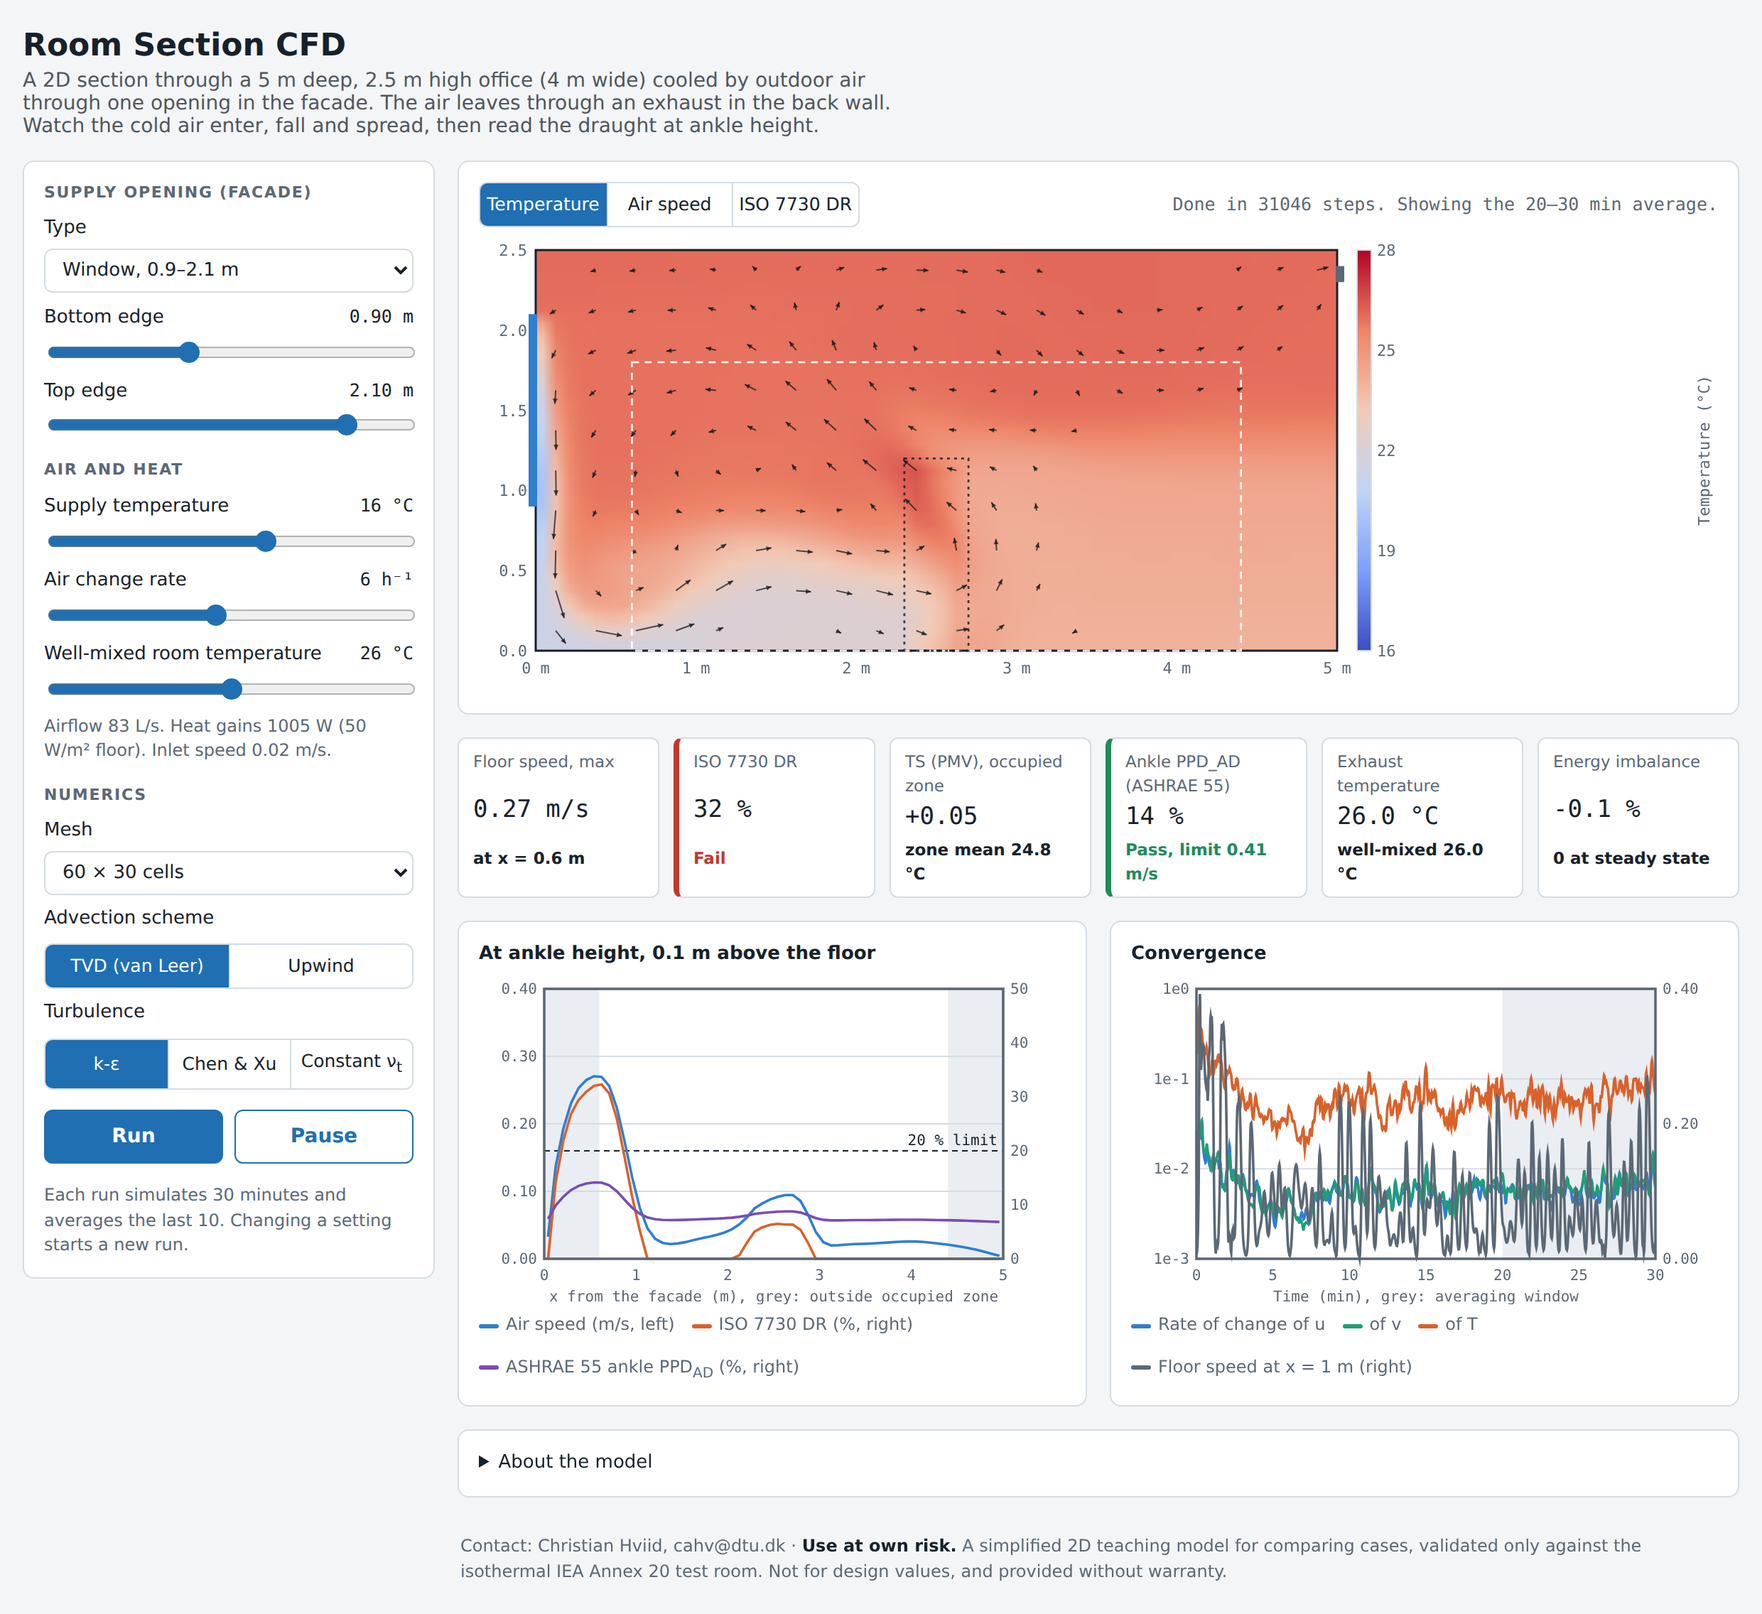
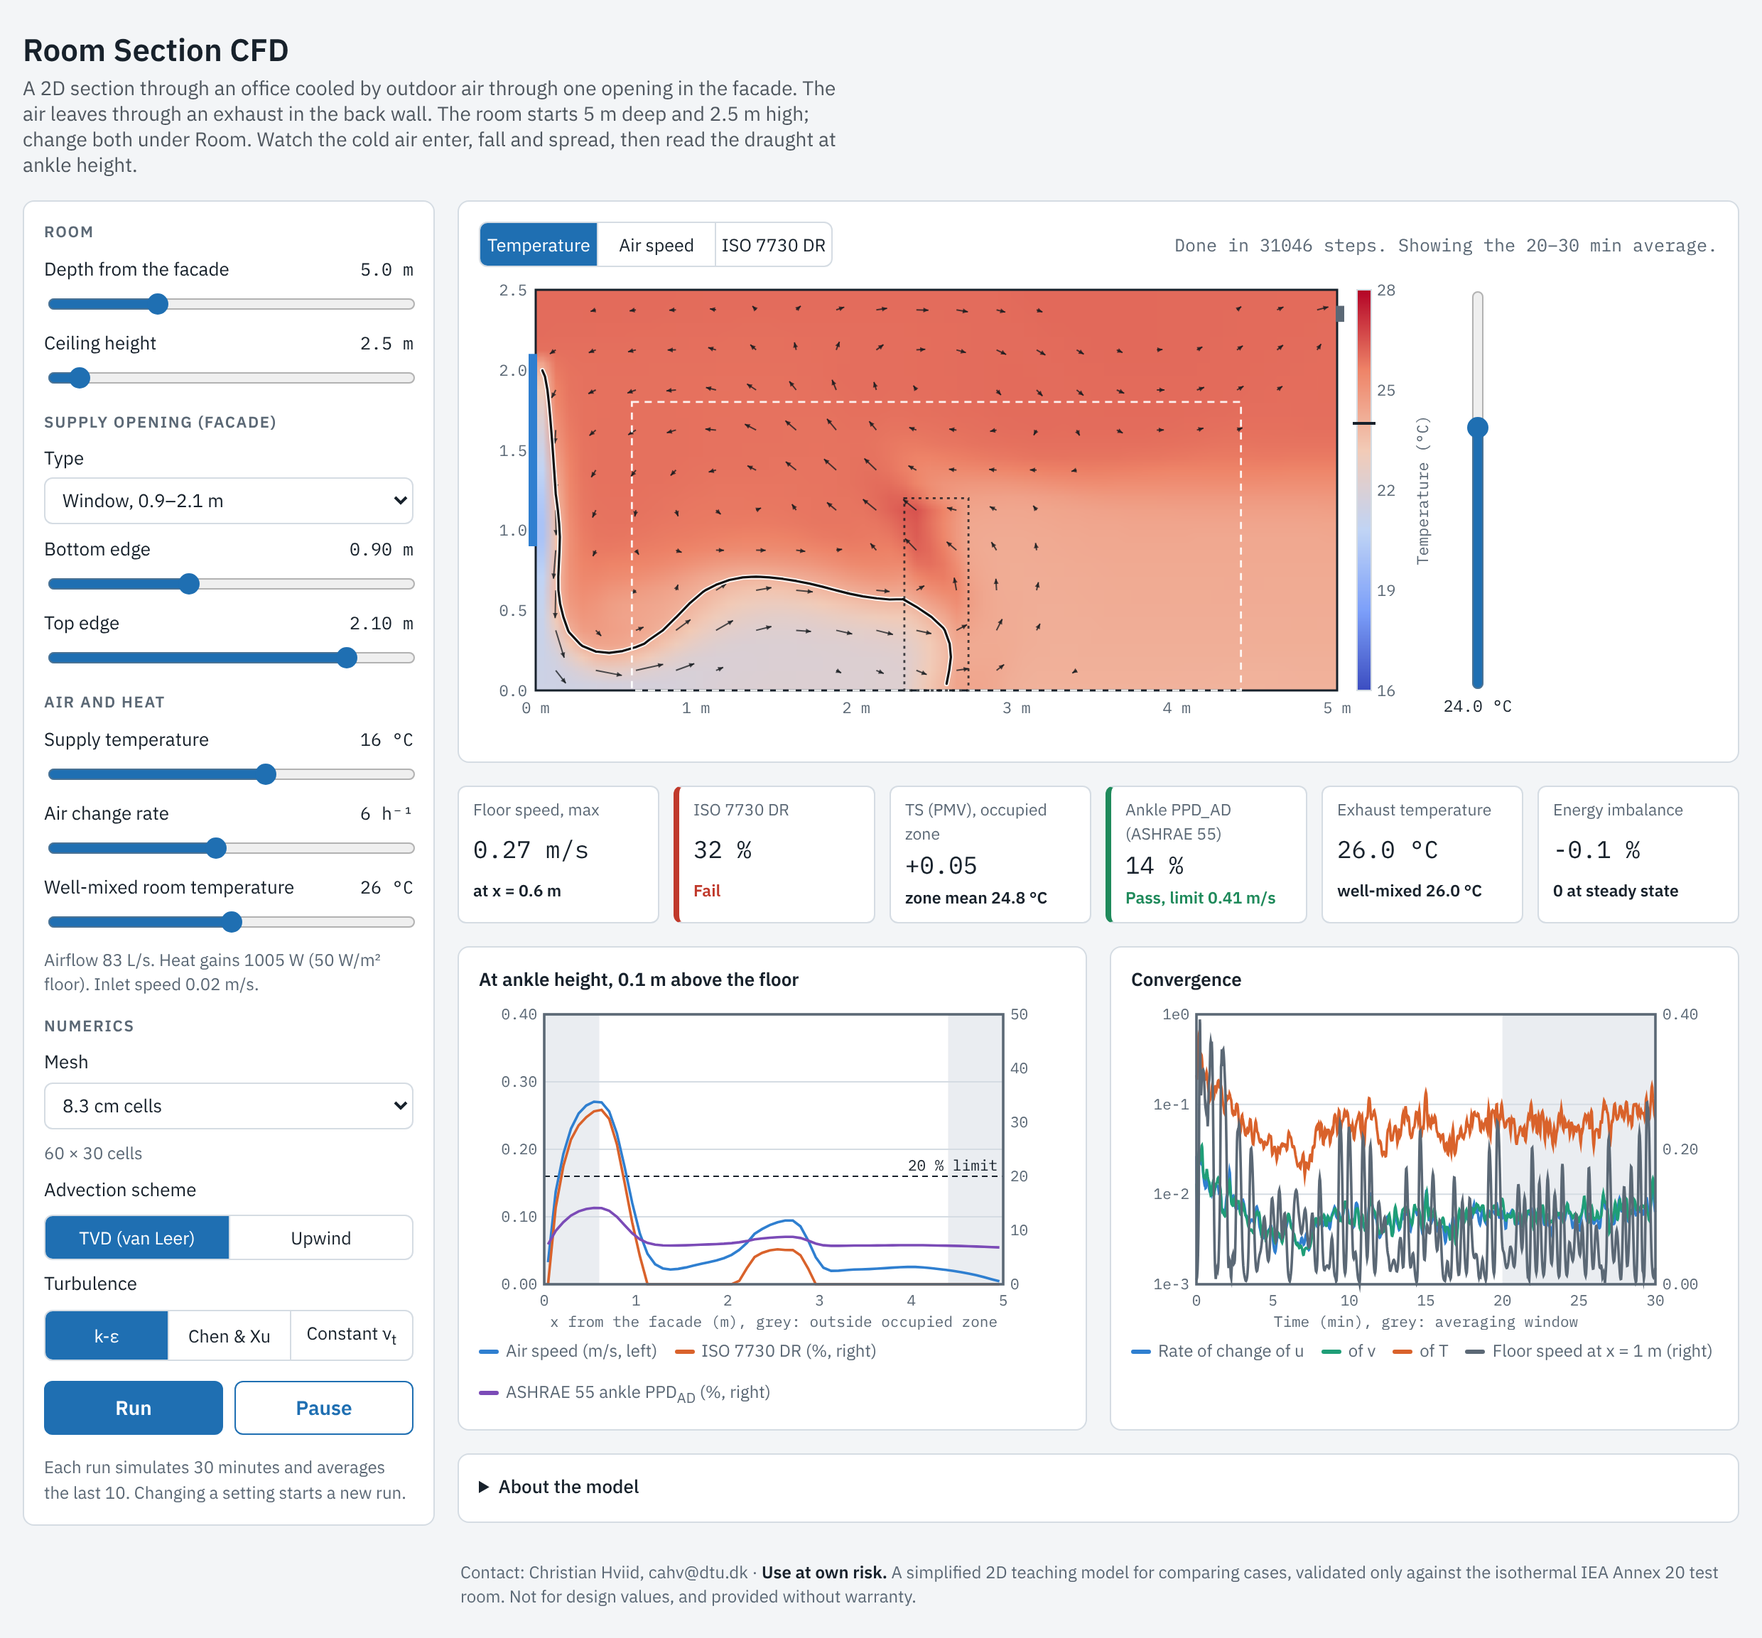
2D room CFD app: adjustable room depth and ceiling height; Appendix B text and screenshot
Claude-Session: https://claude.ai/code/session_01UrtxaCZXiysJhkrdrnt1hM

diff --git a/chapters/code/room-cfd.html b/chapters/code/room-cfd.html
@@ -12,7 +12,7 @@ p.sub { margin: 0 0 12px; font-size: 14px; opacity: .75; max-width: 70ch; }
 </style>
 </head><body><main>
 <h1>Room Section CFD</h1>
-<p class="sub">A 2D section through a 5 m deep, 2.5 m high office (4 m wide) cooled by outdoor air through one opening in the facade. The air leaves through an exhaust in the back wall. Watch the cold air enter, fall and spread, then read the draught at ankle height.</p>
+<p class="sub">A 2D section through an office cooled by outdoor air through one opening in the facade. The air leaves through an exhaust in the back wall. The room starts 5 m deep and 2.5 m high; change both under Room. Watch the cold air enter, fall and spread, then read the draught at ankle height.</p>
 <div id="app"></div>
 </main>
 <script type="module">
@@ -487,12 +487,19 @@ const MARKUP = `<div class="wrap">
   <div class="layout">
     <aside class="panel controls" aria-label="Case settings">
       <div class="group">
+        <h2>Room</h2>
+        <label for="rL"><span class="row"><span>Depth from the facade</span><span class="val" id="rLV"></span></span>
+          <input id="rL" type="range" min="3" max="10" step="0.5" value="5"></label>
+        <label for="rH"><span class="row"><span>Ceiling height</span><span class="val" id="rHV"></span></span>
+          <input id="rH" type="range" min="2.4" max="4" step="0.1" value="2.5"></label>
+      </div>
+      <div class="group">
         <h2>Supply opening (facade)</h2>
         <label for="preset">Type
           <select id="preset">
             <option value="window">Window, 0.9–2.1 m</option>
             <option value="door">Balcony door, 0–2.1 m</option>
-            <option value="hatch">Top hatch, 2.2–2.4 m</option>
+            <option value="hatch" id="hatchOpt">Top hatch, 2.2–2.4 m</option>
             <option value="low">Low slot, 0.2–0.3 m</option>
             <option value="custom">Custom</option>
           </select>
@@ -516,11 +523,12 @@ const MARKUP = `<div class="wrap">
         <h2>Numerics</h2>
         <label for="mesh">Mesh
           <select id="mesh">
-            <option value="50">50 × 25 cells (fast)</option>
-            <option value="60" selected>60 × 30 cells</option>
-            <option value="80">80 × 40 cells (slow)</option>
+            <option value="50">10 cm cells (fast)</option>
+            <option value="60" selected>8.3 cm cells</option>
+            <option value="80">6.25 cm cells (slow)</option>
           </select>
         </label>
+        <p class="note" id="meshNote"></p>
         <div class="group"><span style="font-size:13px">Advection scheme</span>
           <div class="seg" id="adv" role="group" aria-label="Advection scheme">
             <button type="button" data-v="tvd" aria-pressed="true">TVD (van Leer)</button>
@@ -598,30 +606,36 @@ const MARKUP = `<div class="wrap">
 
 function app(root, autoRun) {
   const $ = id => root.querySelector("#" + id);
-  const PRESETS = { window: [0.9, 2.1], door: [0, 2.1], hatch: [2.2, 2.4], low: [0.2, 0.3] };
-  const state = { preset: "window", lo: 0.9, hi: 2.1, tin: 16, ach: 6, troom: 26, mesh: 60, adv: "tvd", turb: "k-epsilon", field: "T", iso: { T: 24, speed: 0.15, DR: 20 } };
+  // the top hatch sits 0.1 m below the ceiling, whatever the ceiling height
+  const PRESETS = { window: () => [0.9, 2.1], door: () => [0, 2.1], hatch: () => [+(state.H - 0.3).toFixed(2), +(state.H - 0.1).toFixed(2)], low: () => [0.2, 0.3] };
+  const state = { preset: "window", L: 5, H: 2.5, lo: 0.9, hi: 2.1, tin: 16, ach: 6, troom: 26, mesh: 60, adv: "tvd", turb: "k-epsilon", field: "T", iso: { T: 24, speed: 0.15, DR: 20 } };
   let sim = null, running = false, rafId = 0, lastDraw = 0;
 
   const css = name => getComputedStyle(root).getPropertyValue(name).trim();
   const fmt = (x, d = 2) => Number.isFinite(x) ? x.toFixed(d) : "–";
 
+  // mesh option = cells over 5 m, so the cell size stays the same when the room changes
+  const meshN = () => { const h = 5 / state.mesh; return [Math.round(state.L / h), Math.round(state.H / h)]; };
   function syncLabels() {
+    $("rLV").textContent = state.L.toFixed(1) + " m"; $("rHV").textContent = state.H.toFixed(1) + " m";
+    $("hatchOpt").textContent = `Top hatch, ${(state.H - 0.3).toFixed(1)}–${(state.H - 0.1).toFixed(1)} m`;
+    const [nx, ny] = meshN(); $("meshNote").textContent = `${nx} × ${ny} cells`;
     $("opLoV").textContent = state.lo.toFixed(2) + " m"; $("opHiV").textContent = state.hi.toFixed(2) + " m";
     $("tinV").textContent = state.tin + " °C"; $("achV").textContent = state.ach + " h⁻¹"; $("troomV").textContent = state.troom + " °C";
-    const q = state.ach * 5 * 2.5 * 4 / 3600, Q = 1.2 * 1005 * q * (state.troom - state.tin);
+    const q = state.ach * state.L * state.H * 4 / 3600, Q = 1.2 * 1005 * q * (state.troom - state.tin);
     const Uin = q / 4 / Math.max(state.hi - state.lo, 0.05);
     $("gainsNote").textContent = Q > 0
-      ? `Airflow ${(q * 1000).toFixed(0)} L/s. Heat gains ${Q.toFixed(0)} W (${(Q / 20).toFixed(0)} W/m² floor). Inlet speed ${Uin.toFixed(2)} m/s.`
+      ? `Airflow ${(q * 1000).toFixed(0)} L/s. Heat gains ${Q.toFixed(0)} W (${(Q / (4 * state.L)).toFixed(0)} W/m² floor). Inlet speed ${Uin.toFixed(2)} m/s.`
       : "The supply must be colder than the room. Raise the room temperature or lower the supply.";
     syncIso();
   }
 
   function makeCase() {
-    const q = state.ach * 5 * 2.5 * 4 / 3600;
+    const { L, H } = state, q = state.ach * L * H * 4 / 3600, [nx, ny] = meshN();
     const Q = Math.max(1.2 * 1005 * q * (state.troom - state.tin), 0);
-    return { L: 5, H: 2.5, W: 4, nx: state.mesh, ny: state.mesh / 2, ach: state.ach, T_in: state.tin,
-      inlet: { side: "left", start: state.lo, end: state.hi }, outlet: { side: "right", start: 2.3, end: 2.4 },
-      heat: [{ x0: 2.3, x1: 2.7, y0: 0, y1: 1.2, power: Q / 4 }], turbulence: state.turb, nu_t: 2e-3, Tu_in: 0.04, Pr_t: 0.85,
+    return { L, H, W: 4, nx, ny, ach: state.ach, T_in: state.tin,
+      inlet: { side: "left", start: state.lo, end: state.hi }, outlet: { side: "right", start: H - 0.2, end: H - 0.1 },
+      heat: [{ x0: L / 2 - 0.2, x1: L / 2 + 0.2, y0: 0, y1: 1.2, power: Q / 4 }], turbulence: state.turb, nu_t: 2e-3, Tu_in: 0.04, Pr_t: 0.85,
       advection: state.adv, t_end: 1800, t_avg: 600 };
   }
 
@@ -699,12 +713,14 @@ function app(root, autoRun) {
   }
 
   function drawField(f, useAvg) {
-    const cv = $("field"), [g, W, Hc] = sizeCanvas(cv, w => (w - 168) / 2 + 38);
+    // a tall, shallow room gets more height so it is not drawn tiny
+    const cv = $("field"); cv.dataset.h = sim.H / sim.L > 0.55 ? 460 : 320;
+    const [g, W, Hc] = sizeCanvas(cv, w => (w - 168) * sim.H / sim.L + 38);
     const ink = css("--ink"), muted = css("--muted"), line = css("--line"), panel = css("--panel");
     g.clearRect(0, 0, W, Hc);
     const padL = 40, padR = 128, padT = 8, padB = 30;
-    const sc = Math.min((W - padL - padR) / 5, (Hc - padT - padB) / 2.5);
-    const pw = 5 * sc, ph = 2.5 * sc, x0 = padL, y0 = padT;
+    const { L, H } = sim, sc = Math.min((W - padL - padR) / L, (Hc - padT - padB) / H);
+    const pw = L * sc, ph = H * sc, x0 = padL, y0 = padT;
     const X = x => x0 + x * sc, Y = y => y0 + ph - y * sc;
     const { nx, ny } = sim;
     // field values
@@ -740,20 +756,20 @@ function app(root, autoRun) {
     g.lineCap = "butt";
     // frame, occupied zone, heat block, openings
     g.strokeStyle = ink; g.lineWidth = 1.5; g.strokeRect(x0, y0, pw, ph);
-    g.setLineDash([5, 4]); g.strokeStyle = "rgba(255,255,255,0.9)"; g.lineWidth = 1.4; g.strokeRect(X(0.6), Y(1.8), 3.8 * sc, 1.8 * sc);
-    g.setLineDash([2, 3]); g.strokeStyle = "rgba(20,25,30,0.8)"; g.strokeRect(X(2.3), Y(1.2), 0.4 * sc, 1.2 * sc); g.setLineDash([]);
+    g.setLineDash([5, 4]); g.strokeStyle = "rgba(255,255,255,0.9)"; g.lineWidth = 1.4; g.strokeRect(X(0.6), Y(1.8), (L - 1.2) * sc, 1.8 * sc);
+    g.setLineDash([2, 3]); g.strokeStyle = "rgba(20,25,30,0.8)"; g.strokeRect(X(L / 2 - 0.2), Y(1.2), 0.4 * sc, 1.2 * sc); g.setLineDash([]);
     g.lineWidth = 6; g.strokeStyle = "#2f7fd0"; g.beginPath(); g.moveTo(X(0) - 2, Y(state.lo)); g.lineTo(X(0) - 2, Y(state.hi)); g.stroke();
-    g.strokeStyle = muted; g.beginPath(); g.moveTo(X(5) + 2, Y(2.3)); g.lineTo(X(5) + 2, Y(2.4)); g.stroke();
+    g.strokeStyle = muted; g.beginPath(); g.moveTo(X(L) + 2, Y(H - 0.2)); g.lineTo(X(L) + 2, Y(H - 0.1)); g.stroke();
     // axes labels
     g.fillStyle = muted; g.font = "11px " + css("--font-data"); g.textAlign = "center";
-    for (let x = 0; x <= 5; x++) g.fillText(x + " m", X(x), y0 + ph + 16);
-    g.textAlign = "right"; for (let y = 0; y <= 2.5; y += 0.5) g.fillText(y.toFixed(1), x0 - 6, Y(y) + 4);
+    for (let x = 0; x <= L + 1e-9; x++) g.fillText(x + " m", X(x), y0 + ph + 16);
+    g.textAlign = "right"; for (let y = 0; y <= H + 1e-9; y += 0.5) g.fillText(y.toFixed(1), x0 - 6, Y(y) + 4);
     // colour bar
     const cbx = x0 + pw + 14, cbw = 10;
     for (let k = 0; k < ph; k++) { const c = ramp(CMAPS[state.field], 1 - k / ph); g.fillStyle = `rgb(${c[0]},${c[1]},${c[2]})`; g.fillRect(cbx, y0 + k, cbw, 1.5); }
     g.strokeStyle = line; g.lineWidth = 1; g.strokeRect(cbx, y0, cbw, ph);
     g.fillStyle = muted; g.textAlign = "left";
-    const nt = 4; for (let k = 0; k <= nt; k++) { const v = lo + (hi - lo) * k / nt; g.fillText(state.field === "speed" ? v.toFixed(2) : v.toFixed(0), cbx + cbw + 4, Y(2.5 * k / nt) + 4); }
+    const nt = 4; for (let k = 0; k <= nt; k++) { const v = lo + (hi - lo) * k / nt; g.fillText(state.field === "speed" ? v.toFixed(2) : v.toFixed(0), cbx + cbw + 4, Y(H * k / nt) + 4); }
     // isoline value on the colour bar
     const yi = y0 + ph * (1 - Math.min(Math.max((state.iso[state.field] - lo) / (hi - lo), 0), 1));
     g.strokeStyle = ink; g.lineWidth = 2; g.beginPath(); g.moveTo(cbx - 3, yi); g.lineTo(cbx + cbw + 3, yi); g.stroke();
@@ -790,14 +806,14 @@ function app(root, autoRun) {
   }
 
   function drawFloor(f, oz) {
-    const { nx, ny, xc, dy } = sim, j = Math.min(Math.floor(0.1 / dy), ny - 1);
+    const { nx, ny, xc, dy, L } = sim, j = Math.min(Math.floor(0.1 / dy), ny - 1);
     const xs = Array.from(xc), sp = xs.map((_, i) => f.speed[i * ny + j]), t = xs.map((_, i) => f.T[i * ny + j]);
     const dr = xs.map((_, i) => draughtRate(t[i], sp[i])), ad = sp.map(v => ankleDraftPPD(v, oz.TS));
     const vtop = Math.max(0.4, Math.ceil(Math.max(...sp) * 10) / 10);
-    chart($("floor"), [0, 5], { r: [0, vtop], ticks: [0, vtop / 4, vtop / 2, 3 * vtop / 4, vtop], fmt: v => v.toFixed(2) },
+    chart($("floor"), [0, L], { r: [0, vtop], ticks: [0, vtop / 4, vtop / 2, 3 * vtop / 4, vtop], fmt: v => v.toFixed(2) },
       { r: [0, 50], ticks: [0, 10, 20, 30, 40, 50], fmt: v => v.toFixed(0) },
       [{ x: xs, y: sp, color: "#2f7fd0" }, { x: xs, y: dr, color: "#d9622b", right: true }, { x: xs, y: ad, color: "#7b4bb7", right: true }],
-      { xticks: [0, 1, 2, 3, 4, 5], xfmt: v => v, xlabel: "x from the facade (m), grey: outside occupied zone", shades: [[0, 0.6], [4.4, 5]],
+      { xticks: Array.from({ length: Math.floor(L) + 1 }, (_, i) => i), xfmt: v => v, xlabel: "x from the facade (m), grey: outside occupied zone", shades: [[0, 0.6], [L - 0.6, L]],
         hlines: [{ y: 20, right: true, label: "20 % limit" }] });
   }
 
@@ -848,21 +864,33 @@ function app(root, autoRun) {
   setSeg("adv", "adv"); setSeg("turb", "turb"); setSeg("fieldSel", "field");
   $("preset").addEventListener("change", e => {
     state.preset = e.target.value;
-    if (PRESETS[state.preset]) { [state.lo, state.hi] = PRESETS[state.preset]; $("opLo").value = state.lo; $("opHi").value = state.hi; }
+    if (PRESETS[state.preset]) { [state.lo, state.hi] = PRESETS[state.preset](); $("opLo").value = state.lo; $("opHi").value = state.hi; }
     syncLabels(); start();
   });
   for (const [id, key] of [["opLo", "lo"], ["opHi", "hi"], ["tin", "tin"], ["ach", "ach"], ["troom", "troom"]]) {
     $(id).addEventListener("input", e => {
       state[key] = +e.target.value;
-      if (key === "lo" && state.hi < state.lo + 0.1) { state.hi = Math.min(state.lo + 0.1, 2.5); $("opHi").value = state.hi; }
+      if (key === "lo" && state.hi < state.lo + 0.1) { state.hi = Math.min(state.lo + 0.1, state.H); $("opHi").value = state.hi; }
       if (key === "hi" && state.lo > state.hi - 0.1) { state.lo = Math.max(state.hi - 0.1, 0); $("opLo").value = state.lo; }
       if (key === "lo" || key === "hi") { state.preset = "custom"; $("preset").value = "custom"; }
       syncLabels();
     });
     $(id).addEventListener("change", start);
   }
+  // room size: the opening must stay below the ceiling, and the top hatch follows the ceiling
+  for (const [id, key] of [["rL", "L"], ["rH", "H"]]) {
+    $(id).addEventListener("input", e => {
+      state[key] = +e.target.value;
+      $("opLo").max = (state.H - 0.1).toFixed(2); $("opHi").max = state.H.toFixed(2);
+      if (state.preset === "hatch") [state.lo, state.hi] = PRESETS.hatch();
+      state.hi = Math.min(state.hi, state.H); state.lo = Math.min(state.lo, state.hi - 0.1);
+      $("opLo").value = state.lo; $("opHi").value = state.hi;
+      syncLabels();
+    });
+    $(id).addEventListener("change", start);
+  }
   $("iso").addEventListener("input", e => { state.iso[state.field] = +e.target.value; $("isoV").textContent = fieldRange().fmt(state.iso[state.field]); draw(); });
-  $("mesh").addEventListener("change", e => { state.mesh = +e.target.value; start(); });
+  $("mesh").addEventListener("change", e => { state.mesh = +e.target.value; syncLabels(); start(); });
   $("run").addEventListener("click", start);
   $("pause").addEventListener("click", () => {
     if (!sim || sim.s.done) return;

diff --git a/chapters/code/build_room_cfd_html.py b/chapters/code/build_room_cfd_html.py
@@ -24,7 +24,7 @@ p.sub {{ margin: 0 0 12px; font-size: 14px; opacity: .75; max-width: 70ch; }}
 </style>
 </head><body><main>
 <h1>Room Section CFD</h1>
-<p class="sub">A 2D section through a 5 m deep, 2.5 m high office (4 m wide) cooled by outdoor air through one opening in the facade. The air leaves through an exhaust in the back wall. Watch the cold air enter, fall and spread, then read the draught at ankle height.</p>
+<p class="sub">A 2D section through an office cooled by outdoor air through one opening in the facade. The air leaves through an exhaust in the back wall. The room starts 5 m deep and 2.5 m high; change both under Room. Watch the cold air enter, fall and spread, then read the draught at ankle height.</p>
 <div id="app"></div>
 </main>
 <script type="module">

diff --git a/chapters/appendix-room-cfd.md b/chapters/appendix-room-cfd.md
@@ -18,13 +18,15 @@ The model exists in two versions that give the same results:
 
 :::{figure} figures/appendix-cfd/room-cfd-app.*
 :label: fig-room-cfd-app
-:alt: Screenshot of the room CFD app. Inputs for the supply opening, supply temperature, air change rate, room temperature, mesh, advection scheme and turbulence model on the left. On the right, the temperature field and velocity arrows in the 5 m deep room section, key results for floor speed, ISO 7730 draught rate, PMV, ankle draught and exhaust temperature, and charts of the conditions at ankle height and of the convergence.
+:alt: Screenshot of the room CFD app. Inputs for the room depth and ceiling height, the supply opening, supply temperature, air change rate, room temperature, mesh, advection scheme and turbulence model on the left. On the right, the temperature field and velocity arrows in the room section, an isoline slider beside the colour bar, key results for floor speed, ISO 7730 draught rate, PMV, ankle draught and exhaust temperature, and charts of the conditions at ankle height and of the convergence.
 :width: 100%
 
 The room CFD app after a run with the default inputs: a window from 0.9 to 2.1 m, 16 °C supply air and 6 air changes per hour. Open the app to change the inputs.
 :::
 
 The app starts a run when it opens. A run simulates 30 minutes of real time and takes under a minute in a browser. The section view shows the instantaneous field while the simulation runs and the time-averaged field when it finishes. Changing a setting starts a new run.
+
+Under Room you can change the depth of the room from the facade (3–10 m) and the ceiling height (2.4–4 m). The heat gains stay in the middle of the floor, the exhaust slot stays 0.1–0.2 m below the ceiling, and the cells keep the size set under Mesh. The slider beside the colour bar draws one isoline on the section, for example the 0.15 m/s air speed or the 20 % draught rate. Each of the three views keeps its own value.
 
 The app is a single HTML file, {download}`room-cfd.html <code/room-cfd.html>`. Save it anywhere and double-click it to use it offline.
 
